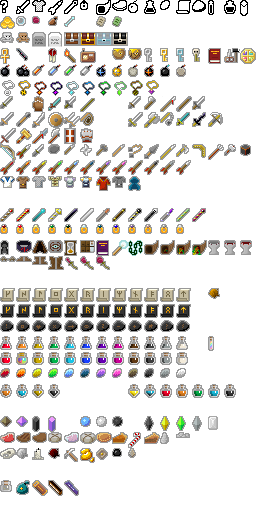
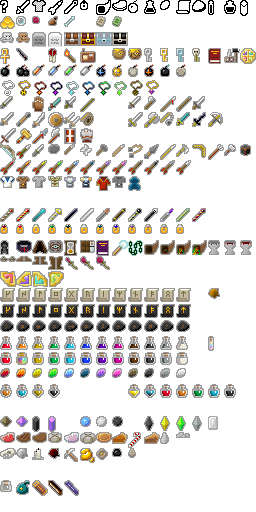
Amulet gfx implemented.

Changed region(s): [[0.0, 0.5312, 0.25, 0.5625]]

diff --git a/core/src/main/java/com/shatteredpixel/cursedpixeldungeon/sprites/ItemSpriteSheet.java b/core/src/main/java/com/shatteredpixel/cursedpixeldungeon/sprites/ItemSpriteSheet.java
@@ -443,7 +443,14 @@ public class ItemSpriteSheet {
 		assignItemRect(ARTIFACT_ROSE3,      14, 14);
 	}
 
-	                                                                                    //16 free slots
+	private static final int AMULETS          =                            xy(1, 18);  //16 slots
+
+	public static final int AMULET_FIRE = AMULETS + 0;
+	public static final int AMULET_AIR  = AMULETS + 1;
+	public static final int AMULET_WATER= AMULETS + 2;
+	public static final int AMULET_EARTH= AMULETS + 3;
+
+
 
 	private static final int SCROLLS        =                               xy(1, 19);  //16 slots
 	public static final int SCROLL_KAUNAN   = SCROLLS+0;
